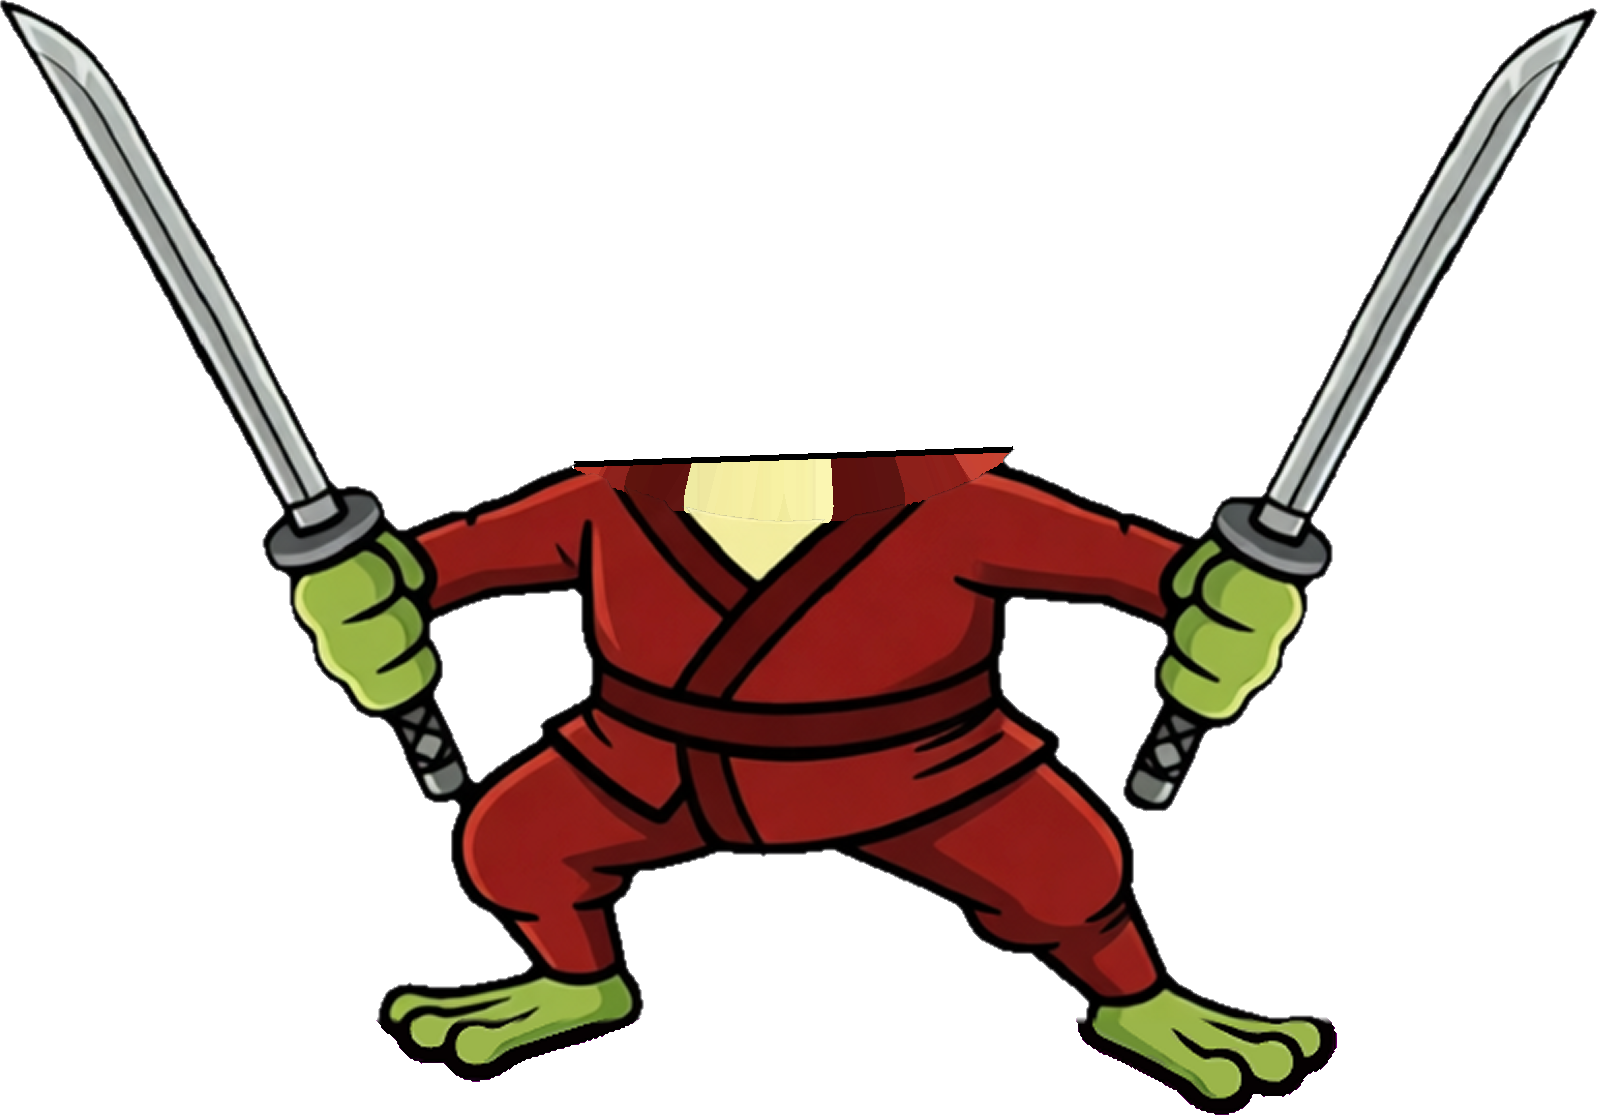
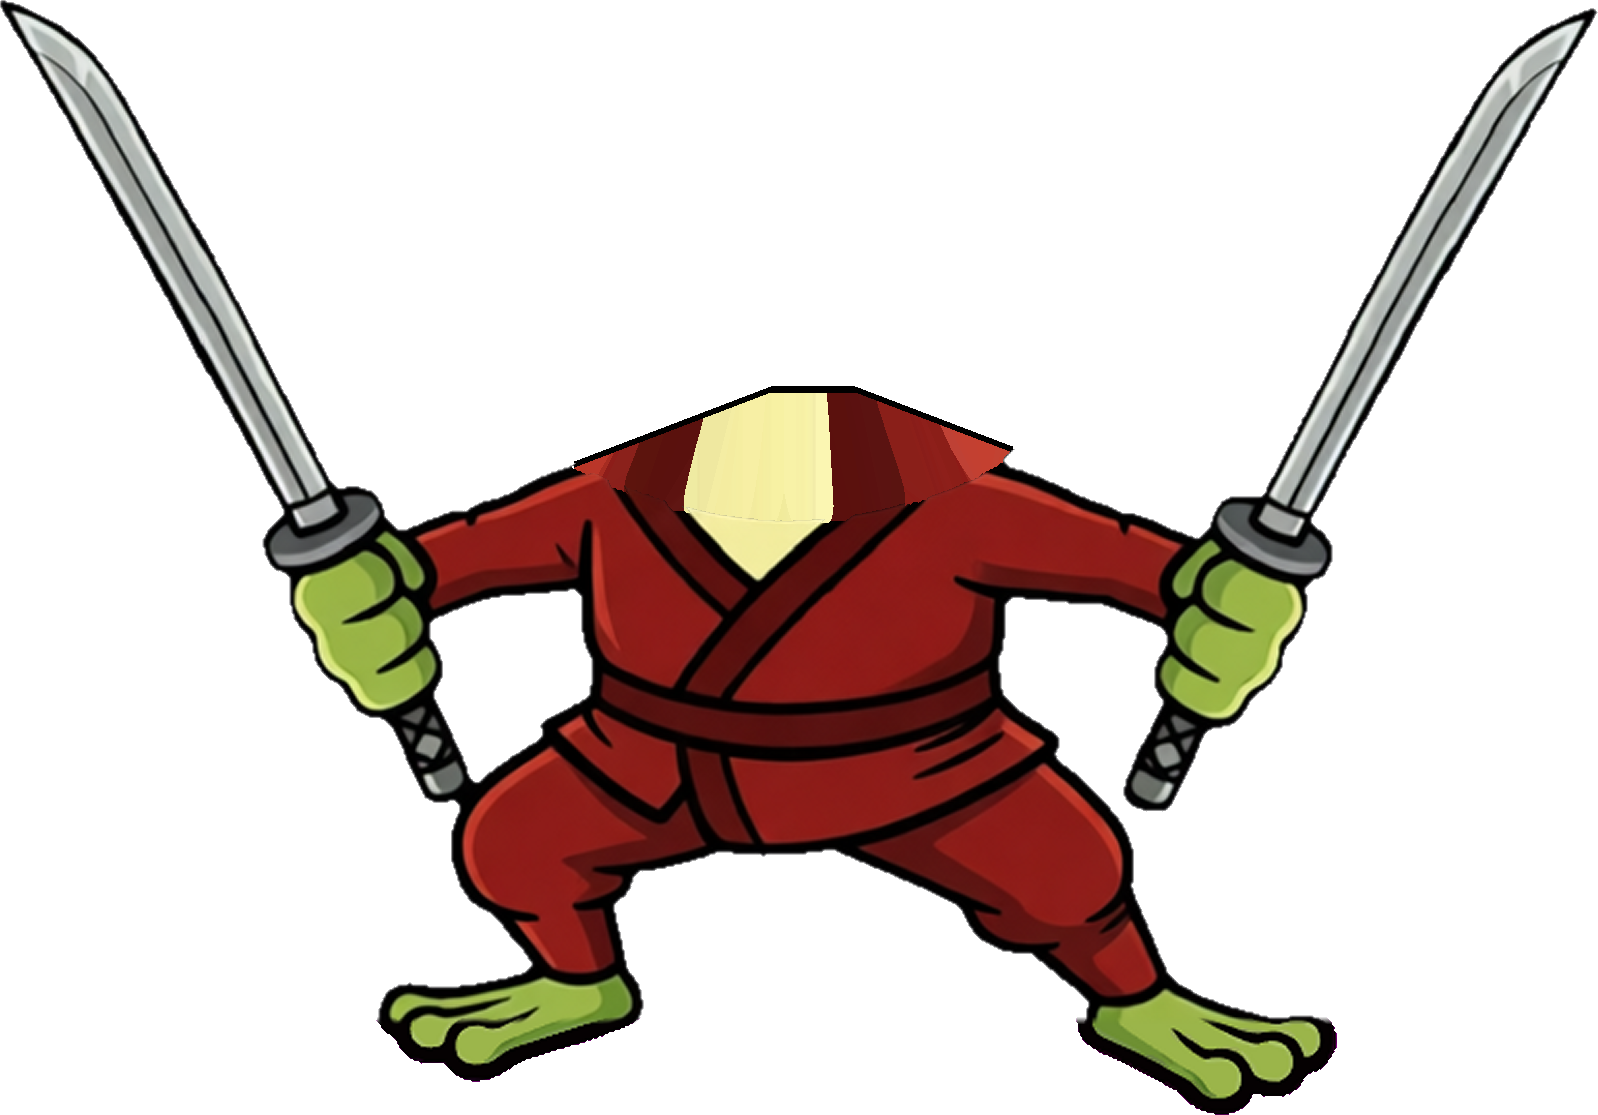
Frog Ninja: no jointed arms left in any standing pose; bodies are whole under the head
Out of stamina and stunned are painted pictures; the intro's last frames use the ready picture; the body under
the head has its shoulders, neck and chest drawn (judged alone in new 'body alone' shots); arm_sweep.py.

Changed region(s): [[0.368, 0.3354, 0.6439, 0.4269]]

diff --git a/static/js/views/frog-game.js b/static/js/views/frog-game.js
@@ -1193,7 +1193,7 @@ function drawLaptop(ctx, b, lw) {
 // The standing frog, painted (Marek's pick, 2026-11-24): body, arms, fists and katanas as one picture, standing ready and
 // pressed (the wind-up); the rig's head and tails go on top. x, y, w, h: where it sits in the frog's units. ?stand=0: the rig.
 // STAND_ART:begin (written by design/frog/tools/art_build_stand.py: do not edit by hand)
-const STAND_ART = { ready: { url: '/img/game/frog/stand-ready.0d601b6f3c.webp', x: -596.0, y: -532.0, w: 3196.0, h: 2230.0 }, wind: { url: '/img/game/frog/stand-wind.06520e6fc9.webp', x: -1142.0, y: -176.0, w: 4274.0, h: 1874.0 } };
+const STAND_ART = { ready: { url: '/img/game/frog/stand-ready.edd3bfe270.webp', x: -596.0, y: -532.0, w: 3196.0, h: 2230.0 }, wind: { url: '/img/game/frog/stand-wind.115d8a6933.webp', x: -1142.0, y: -176.0, w: 4274.0, h: 1874.0 }, tired: { url: '/img/game/frog/stand-tired.85771de6e0.webp', x: -1234.0, y: 252.0, w: 4466.0, h: 1446.0 }, stun: { url: '/img/game/frog/stand-stun.03128e01eb.webp', x: -580.0, y: -306.0, w: 3150.0, h: 2004.0 } };
 // STAND_ART:end
 const STAND_ON = typeof location === 'undefined' || !/[?&]stand=0(&|$)/.test(location.search);
 // The frog's splash when it goes into the sea at the end of a run, painted (built by art_build_splash.py).
@@ -1863,7 +1863,7 @@ export function mountFrogGame(stage, opts = {}) {
         try {
             const g = await (await fetch(ART.frog)).json(), p = g.parts;
             // load every part first, so the frog never shows half drawn
-            await Promise.all(Object.values(p).map(q => q.href).concat([STUN_ART.face, STUN_ART.eyes, LOOK_ART.face, STAND_ART.ready.url, STAND_ART.wind.url]).map(u => new Promise((ok, no) => { const i = new Image(); i.onload = ok; i.onerror = no; i.src = u; })));
+            await Promise.all(Object.values(p).map(q => q.href).concat([STUN_ART.face, STUN_ART.eyes, LOOK_ART.face, ...Object.values(STAND_ART).map(q => q.url)]).map(u => new Promise((ok, no) => { const i = new Image(); i.onload = ok; i.onerror = no; i.src = u; })));
             if (dead) return;
             const im = (q, x, y, extra = '') => `<image href="${q.href}" x="${x}" y="${y}" width="${q.w}" height="${q.h}"${extra}/>`;
             const armSvg = s => {
@@ -1903,7 +1903,7 @@ export function mountFrogGame(stage, opts = {}) {
                 <polygon class="fg-slope-fillL" fill="#a3211d"/><polygon class="fg-slope-fillR" fill="#a3211d"/></g>
                 <path class="fg-slope-lineL" stroke="#000" stroke-width="24" stroke-linecap="round" fill="none"/><path class="fg-slope-lineR" stroke="#000" stroke-width="24" stroke-linecap="round" fill="none"/>
                 <g class="fg-art-cap">${cap('#a3211d', 0)}</g>${armSvg('L')}${armSvg('R')}
-                <g class="fg-art-stand" display="none">${['ready', 'wind'].map(n => { const q = STAND_ART[n]; return `<image class="fg-stand-${n}" href="${q.url}" x="${q.x}" y="${q.y}" width="${q.w}" height="${q.h}" preserveAspectRatio="none"/>`; }).join('')}</g>
+                <g class="fg-art-stand" display="none">${Object.keys(STAND_ART).map(n => { const q = STAND_ART[n]; return `<image class="fg-stand-${n}" href="${q.url}" x="${q.x}" y="${q.y}" width="${q.w}" height="${q.h}" preserveAspectRatio="none"/>`; }).join('')}</g>
                 <g class="fg-art-head"><g class="fg-face-base">${im(p.head, p.head.x, p.head.y)}</g>${['fire', 'stun', 'back'].filter(n => p['fh-' + n])
                 .map(n => n === 'stun' ? stunFace() : `<g class="fg-face-${n}" opacity="0">${im(p['fh-' + n], p['fh-' + n].x, p['fh-' + n].y)}</g>`).join('')}${lookFace()}</g>`;
             const arm = s => { const a = root.querySelector('.fg-art-arm' + s), at = root.querySelector('.fg-art-limbat' + s);
@@ -2478,10 +2478,14 @@ export function mountFrogGame(stage, opts = {}) {
         arm(A.armL, G.shoulderL, pose.lRot, pose.lStretch, pose.lK);
         arm(A.armR, G.shoulderR, pose.rRot, pose.rStretch, pose.rK);
         // The two poses seen most are painted whole (STAND_ART): standing ready, and pressed. The rig's body and arms
-        // are put away while one shows; any other arm pose (tired, stunned, the tongue...) is still the rig.
+        // are put away while one shows: ready, the wind-up, out of stamina, stunned. Any other arm pose would be the rig
+        // (frogPlay.state().arms says which: the sweep in CURATOR.md must find no 'rig').
         const plainArms = armed && pose.lStretch === 1 && pose.rStretch === 1;
-        const st = !STAND_ON || !plainArms ? '' : pose.lRot === READY.l && pose.rRot === READY.r && Math.abs(pose.lK - READY.lK) < 4 ? 'ready'
-            : pose.lRot === READY.l + 18 && pose.rRot === READY.r - 18 && pose.lK === READY.lK - 25 ? 'wind' : '';
+        const kNear = Math.abs(((pose.lK - READY.lK) % 360 + 540) % 360 - 180) < 4;         // (the intro ends a full turn on: 330 is -30)
+        const st = !STAND_ON || !plainArms ? '' : pose.lRot === READY.l && pose.rRot === READY.r && kNear ? 'ready'
+            : pose.lRot === READY.l + 18 && pose.rRot === READY.r - 18 && pose.lK === READY.lK - 25 ? 'wind'
+            : pose.lRot === READY.l - 12 && pose.lK === READY.lK - 55 ? 'tired'
+            : pose.lRot === READY.l - 25 && pose.rRot === READY.r + 25 ? 'stun' : '';
         if (st !== A.standNow) {
             A.standNow = st; setA(A.stand, 'display', st ? 'inline' : 'none'); A.rig.forEach(e => setA(e, 'display', st ? 'none' : 'inline'));
             if (st) [...A.stand.children].forEach(e => setA(e, 'display', e.classList.contains('fg-stand-' + st) ? 'inline' : 'none'));
@@ -3293,7 +3297,7 @@ export function mountFrogGame(stage, opts = {}) {
     let poseAcc = 0;
     let lowSide = 0;              // under five seconds: which way it is facing while it teeters (held for the whole spell)
     let swing = null;             // { a: heading (rad, snapped to 8), side: 'L'|'R', t, live }
-    let windUp = false;
+    let windUp = false, dbgNoHead = false;
     function swingTo(dx, dy, x, y) {
         if (!pose.held) return;
         // (a cut from standing: the frog as it stands right now, kept for the blend into the cut and back out of it)
@@ -6053,6 +6057,9 @@ export function mountFrogGame(stage, opts = {}) {
         out.push({ name: 'ready (idle)', dur: 0.6 });
         out.push({ name: 'wind-up (pressed)', dur: 0.5, tick() { windUp = true; }, end() { windUp = false; } });
         // (the head turns and tips to the cursor: what it uncovers at the neck and shoulders has to be drawn; Marek 2026-11-24)
+        out.push({ name: 'ready, body alone', dur: 0.6, tick() { dbgNoHead = true; }, end() { dbgNoHead = false; } });
+        out.push({ name: 'wind-up, body alone', dur: 0.5, tick() { windUp = true; dbgNoHead = true; }, end() { windUp = false; dbgNoHead = false; } });
+        out.push({ name: 'out of stamina, body alone', dur: 0.7, tick() { stamina = 0; dbgNoHead = true; }, end() { stamina = STAMINA_BARS; dbgNoHead = false; hud(); } });
         out.push({ name: 'ready, cursor far left', dur: 0.6, tick() { aim = { x: 0, y: H * 0.6 }; }, end() { aim = null; } });
         out.push({ name: 'wind-up, cursor far right', dur: 0.5, tick() { windUp = true; aim = { x: W, y: H * 0.3 }; }, end() { windUp = false; aim = null; } });
         out.push({ name: 'tongue', dur: 0.5, start() { const h = head(); shootTongue(h.x + fw() * 1.2, h.y - fw() * 0.5); } });
@@ -6103,6 +6110,7 @@ export function mountFrogGame(stage, opts = {}) {
         state() {
             const cb = canvas.getBoundingClientRect(), at = o => ({ x: Math.round(o.x + cb.left), y: Math.round(o.y + cb.top) });
             return {
+                arms: artFrog && artFrog.on && !svg.classList.contains('fg-art-cut-on') ? (artFrog.standNow || 'rig ' + Math.round(pose.lRot) + '/' + Math.round(pose.rRot) + (pose.held && !pose.noBlades && !pose.stuck ? '' : ' unarmed')) : '',      // (which arms the standing frog shows: a painted stand, or the jointed rig at these angles)
                 pic: swing && !(!swing.live && swing.t > holdUntil(swing)) ? pose.artCut + (pose.side < 0 ? " L" : pose.side > 0 ? " R" : "") : "",      // (the picture a stroke is showing: sound and repeat checks read it)
                 vr: VR_RAY, press: press ? [Math.round(press.x), Math.round(press.y), press.drag || 0] : null, down,      // (the pointer, for the controller-ray checks)
                 phase, paused: typeof paused !== 'undefined' && paused, debug: dbg, w: W, h: H, survived: r2(clockT), left: r2(timeLeft), stamina: r2(stamina),
@@ -6394,6 +6402,7 @@ export function mountFrogGame(stage, opts = {}) {
             pose.squash = 0.5;
         }
         pose.noHead = false;
+        if (dbgNoHead) pose.noHead = true;             // (debug: the body judged on its own, without the head over it)
         if (stunT > 0 && headFx) {
             if (headFx.mode === 'stuck') pose.noHead = true;                                   // the fruit is where its head was
             if (headFx.mode === 'eat') pose.mouthOpen = Math.floor(idleT * 12) % 2 === 0;       // chewing: open, shut, open
@@ -7191,6 +7200,10 @@ export function mountFrogGame(stage, opts = {}) {
             { name: 'ready', anim: 'ready (idle)', at: 0.3 },
             { name: 'wind-up', anim: 'wind-up (pressed)', at: 0.25 },
             { name: 'ready looking left', anim: 'ready, cursor far left', at: 0.45 },
+            { name: 'ready body alone', anim: 'ready, body alone', at: 0.45 },
+            { name: 'wind-up body alone', anim: 'wind-up, body alone', at: 0.4 },
+            { name: 'tired', anim: 'out of stamina', at: 0.5 },
+            { name: 'tired body alone', anim: 'out of stamina, body alone', at: 0.5 },
             { name: 'wind-up looking right', anim: 'wind-up, cursor far right', at: 0.4 },
             ...['cut right, far', 'cut left, far', 'cut left, near', 'cut up, near', 'cut down, far', 'cut down-left, far', 'cut overhead, both blades', 'cut straight down, both blades', 'duck under a level cut', 'hop over a level cut', 'thrust far up-right']
                 .map(n => ({ name: n, anim: n, at: 0.12, air: /^cut down(-left)?, far$/.test(n) })),     // (a downward cut is the hop: in the air on purpose)

diff --git a/design/frog/tools/art_stand_cut.py b/design/frog/tools/art_stand_cut.py
@@ -22,10 +22,10 @@ def redmask(A): return (A[..., 0] > 110) & (A[..., 1] < 70) & (A[..., 2] < 70)
 ref = np.asarray(Image.open('in-idle.png').convert('RGB')).astype(float); rm = np.median(ref[redmask(ref)], axis=0)
 out = {}
 ANKLE = 1500          # frog units: from here down the rig's feet
-for state, gen in (('ready', 'd-6'), ('wind', 'w-3')):
+for state, gen in (('ready', 'd-6'), ('wind', 'w-3'), ('tired', 'tired-2'), ('stun', 'stun-6')):
     im = Image.open(gen).convert('RGB').resize((1200, 800), Image.LANCZOS); A = np.asarray(im).astype(float)
     m = (A[..., 0] > 80) & (A[..., 1] < 75) & (A[..., 2] < 75) & (A[..., 0] > A[..., 1] * 1.8)
-    A[m] = np.clip(A[m] * (rm / np.median(A[redmask(A)], axis=0)), 0, 255)
+    # (no colour fix here any more: the colour guardian paints the palette over the built picture)
     Image.fromarray(A.astype(np.uint8)).save('cc.png'); fr = keyed('cc.png', loose=True)
     full = Image.open(f'cap-{state}-full.png').convert('RGB')
     # register the generated frog on the capture it was made from: the feet and legs did not change
@@ -60,7 +60,15 @@ for state, gen in (('ready', 'd-6'), ('wind', 'w-3')):
     # are carried up (never its ink), and the line itself is inked, so the shoulder's outline goes on under the cheek.
     kept = PA[..., 3] > 200; yy, xx = np.nonzero(ndimage.binary_dilation(erase, iterations=3) & kept & (np.arange(RH)[:, None] > headmid))
     xl, xr = xx.min(), xx.max(); yl = yy[xx < xl + 8].min(); yr = yy[xx > xr - 8].min()
-    line = (yl + (yr - yl) * (np.arange(RW) - xl) / max(1, xr - xl))[None, :]; rows_ = np.arange(RH)[:, None]
+    # each shoulder's top goes on under the head at its own slope (a straight chord between the two made a flat corner
+    # beside the chin when the head moved), up to a flat neck top
+    top = np.where(kept.any(0), kept.argmax(0), RH).astype(float); cols = np.arange(RW)
+    def slope(x0, x1):
+        k = (cols >= x0) & (cols <= x1) & (top < RH)
+        return float(np.polyfit(cols[k], top[k], 1)[0]) if k.sum() > 8 else 0.0
+    sl = float(np.clip(slope(xl - 45, xl - 3), -0.7, 0)); sr = float(np.clip(slope(xr + 3, xr + 45), 0, 0.7))
+    cap = min(yl, yr) - 60
+    line = np.maximum(np.maximum(yl + sl * (cols - xl), yr + sr * (cols - xr)), cap)[None, :]; rows_ = np.arange(RH)[:, None]
     inkish = PA[..., :3].max(-1) < 70
     near = ndimage.binary_dilation(M, iterations=10)
     flatsrc = ndimage.binary_erosion(kept & ~inkish, iterations=5) & ~near     # (flat colour only: an edge pixel would smear as a streak)

diff --git a/design/frog/tools/arm_sweep.py b/design/frog/tools/arm_sweep.py
@@ -1,0 +1,22 @@
+#!/usr/bin/env python3
+"""Which arms does the standing frog show, in every debug animation? Plays them all and prints each animation that
+shows the jointed rig's arms (frogPlay.state().arms starts with "rig"): the old "sausage arms". Nothing printed = every
+standing pose is a painted picture (STAND_ART) or a cut picture. Run after adding a pose or an animation: about 2 minutes.
+
+    python design/frog/tools/arm_sweep.py
+"""
+import sys, time, os, json, collections
+sys.path.insert(0, r'C:\Users\marek\Documents\GitHub\cfp.ninja\design\frog\tools')
+import playtest, scenario_test
+g = playtest.Game(1280, 720)
+try:
+    scenario_test.fresh(g); time.sleep(0.8)
+    info = json.loads(g.js("JSON.stringify(frogAnims.info())"))
+    for name, dur in info:
+        g.js(f"frogAnims.play({json.dumps(name)})"); seen = collections.Counter(); t0 = time.time()
+        while time.time() - t0 < min(dur, 6) + 0.15:
+            seen[g.js("frogPlay.state().arms")] += 1; time.sleep(0.04)
+        rig = {k: v for k, v in seen.items() if k and k.startswith('rig')}
+        if rig: print(f'{name[:60]:60} {dict(seen)}')
+        time.sleep(0.25)
+finally: g.close()

diff --git a/design/frog/tools/art_build_stand.py b/design/frog/tools/art_build_stand.py
@@ -20,7 +20,7 @@ SRC = os.path.join(FROG, 'art', 'sources', 'stand'); OUT = os.path.join(REPO, 's
 
 def main():
     at = json.load(open(os.path.join(SRC, 'stand.json'))); rows = []
-    for p in ('ready', 'wind'):
+    for p in at:
         img = fix_image(Image.open(os.path.join(SRC, p + '.png')).convert('RGBA'))          # the logo's colours (design/frog/palette.json)
         b = io.BytesIO(); img.save(b, 'WEBP', quality=92, method=6); data = b.getvalue()
         fn = f'stand-{p}.{hashlib.sha256(data).hexdigest()[:10]}.webp'

diff --git a/design/frog/art/CURATOR.md b/design/frog/art/CURATOR.md
@@ -359,3 +359,18 @@ the middle hides whatever the head uncovers when it moves. So:
 - The reviewer opens the `neck` and `both shoulders and chest` crops at full size. The review sheets are too small
   to show a stray dash or a leftover outline.
 - Whoever makes the change looks at the same crops at full size before asking for the review.
+
+## Parts are proven on their own, then glued (Marek's rule, 2026-11-24)
+
+"When there are moving parts in the sprite, the elements are tested separately to work on their own, to then glue the
+head on top of the chest."
+
+- A body that carries a moving head is a whole headless body: shoulders that go on under the head at their own
+  slope, a neck, the jacket and chest carried up, all outlined. It is shown and judged WITHOUT the head first (the
+  shots `ready body alone`, `wind-up body alone`, `tired body alone`; the debug animations "..., body alone").
+  If it looks broken alone, it is broken: the head only hides it until it bobs, tips or turns.
+- Then the head goes on, and the pair is judged with the head off its rest place (`ready looking left`,
+  `wind-up looking right`) and while it bobs.
+- No jointed-rig arms in any standing pose: `python design/frog/tools/arm_sweep.py` plays every debug animation and
+  must print nothing. A new arm pose is a new painted picture in `STAND_ART` (art_stand_capture.py -> qwen_edit.py ->
+  art_stand_cut.py -> art_build_stand.py), not the rig.
